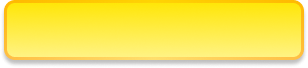
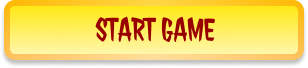
create game component

diff --git a/src/app/game/game.component.spec.ts b/src/app/game/game.component.spec.ts
@@ -1,0 +1,21 @@
+import { ComponentFixture, TestBed } from '@angular/core/testing';
+
+import { GameComponent } from './game.component';
+
+describe('GameComponent', () => {
+  let component: GameComponent;
+  let fixture: ComponentFixture<GameComponent>;
+
+  beforeEach(() => {
+    TestBed.configureTestingModule({
+      declarations: [GameComponent]
+    });
+    fixture = TestBed.createComponent(GameComponent);
+    component = fixture.componentInstance;
+    fixture.detectChanges();
+  });
+
+  it('should create', () => {
+    expect(component).toBeTruthy();
+  });
+});

diff --git a/src/app/app.module.ts b/src/app/app.module.ts
@@ -4,11 +4,13 @@ import { BrowserModule } from '@angular/platform-browser';
 import { AppRoutingModule } from './app-routing.module';
 import { AppComponent } from './app.component';
 import { StartScreenComponent } from './start-screen/start-screen.component';
+import { GameComponent } from './game/game.component';
 
 @NgModule({
   declarations: [
     AppComponent,
-    StartScreenComponent
+    StartScreenComponent,
+    GameComponent
   ],
   imports: [
     BrowserModule,

diff --git a/src/app/start-screen/start-screen.component.scss b/src/app/start-screen/start-screen.component.scss
@@ -12,8 +12,28 @@
 
 .start-img-01 {
   width: 80vw;
-  height: 80vh;
+  height: auto;
 }
 
 .button01 {
+  position: absolute;
+  left: 0;
+  right: 0;
+  bottom: 10%;
+
+  display: flex;
+  justify-content: center;
+  align-items: center;
+
+  img {
+    width: 35vw;
+    min-width: 300px;
+    height: auto;
+
+    cursor: pointer;
+
+    &:hover {
+      filter: brightness(1.1);
+    }
+  }
 }

diff --git a/src/app/start-screen/start-screen.component.html b/src/app/start-screen/start-screen.component.html
@@ -1,4 +1,6 @@
 <div class="start-screen">
   <img class="start-img-01" src="assets/img/screen_01.png" alt="" />
-  <img class="button01" src="assets/img/button01.png" alt="" />
+  <div class="button01">
+    <img src="assets/img/button01.png" alt="" />
+  </div>
 </div>

diff --git a/src/app/game/game.component.ts b/src/app/game/game.component.ts
@@ -1,0 +1,10 @@
+import { Component } from '@angular/core';
+
+@Component({
+  selector: 'app-game',
+  templateUrl: './game.component.html',
+  styleUrls: ['./game.component.scss']
+})
+export class GameComponent {
+
+}

diff --git a/src/app/game/game.component.html b/src/app/game/game.component.html
@@ -1,0 +1,1 @@
+<p>game works!</p>
